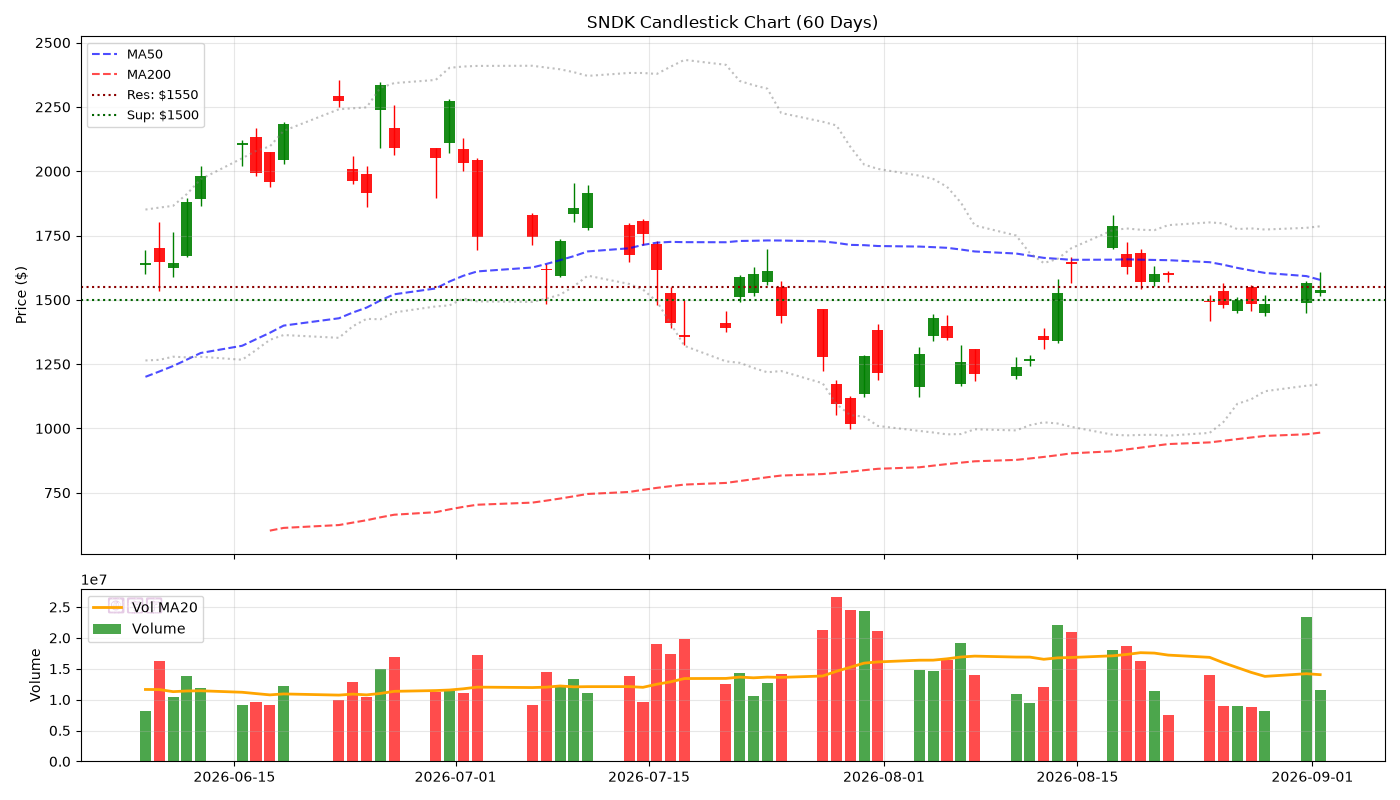
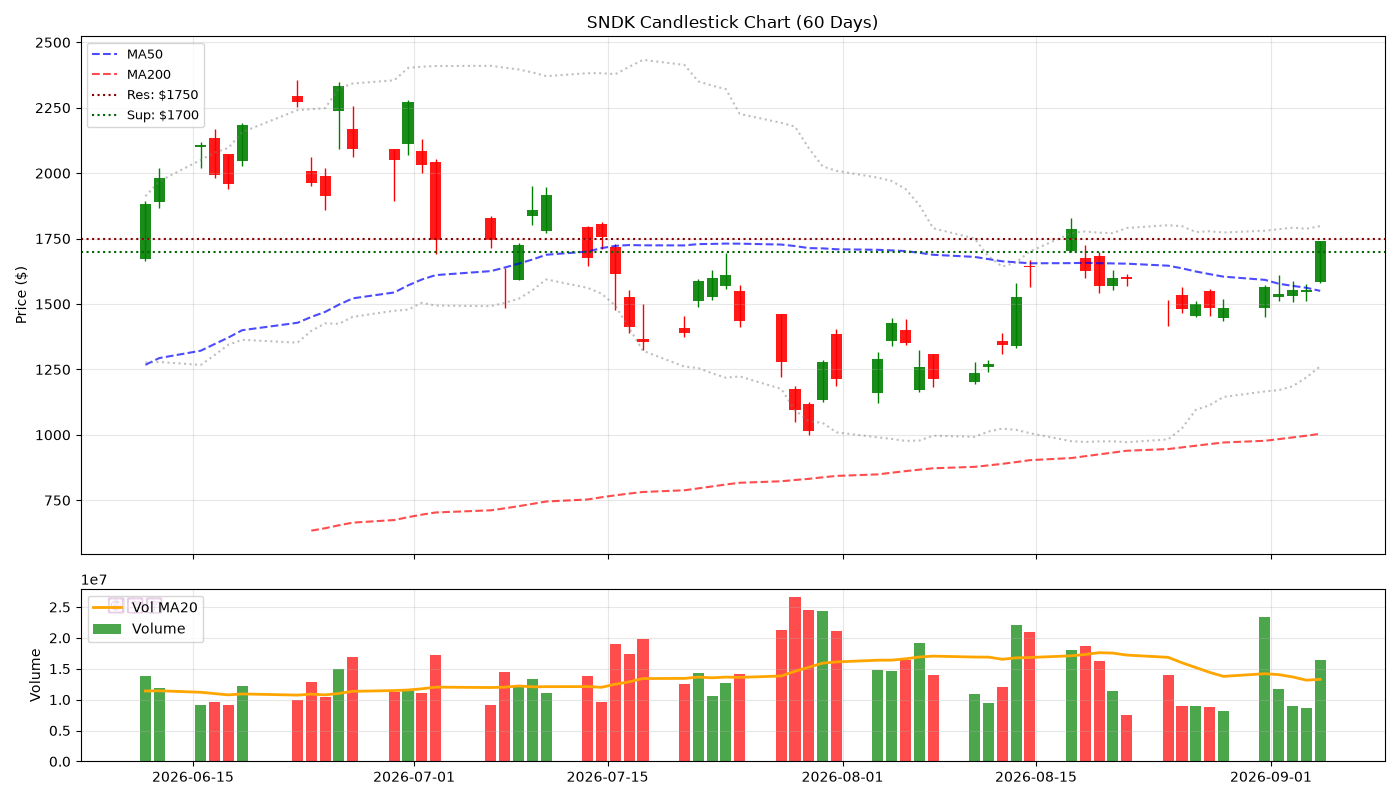
feat(v5): 2026-09-06 Candlestick

diff --git a/reports/2026-09-06.md b/reports/2026-09-06.md
@@ -1,0 +1,85 @@
+# 🕯 Hermes V5 陰陽燭專業日報 - 2026-09-06
+> **生成時間**: 2026-09-06 22:12:56 | **圖表**: 正宗陰陽燭 + Volume
+
+---
+
+## 📊 核心數據
+
+| 股票 | 價格 | 漲跌% | RSI | 成交量 | 阻力 | 支撐 |
+|------|------|-------|-----|--------|------|------|
+| SNDK | $1740.00 | +11.90% | 46.7 | 💧 | $1750 | $1700 |
+| MU | $1016.59 | +6.10% | 50.7 | 💧 | $1036 | $1000 |
+| SOXL | $117.28 | +9.87% | 30.2 | 💧 | $157 | $100 |
+| TSLA | $354.08 | -5.92% | 55.0 | 🔥 | $384 | $350 |
+| APP | $320.56 | +2.23% | 56.1 | 💧 | $350 | $300 |
+| NOW | $141.26 | -2.97% | 68.8 | 💧 | $150 | $118 |
+| CAT | $813.94 | +1.72% | 31.6 | 💧 | $888 | $800 |
+| AMAT | $454.71 | +4.31% | 17.4 | 💧 | $500 | $450 |
+| NOK | $10.03 | +2.66% | 36.1 | 💧 | $11 | $9 |
+| ALAB | $310.40 | +9.75% | 46.8 | 🔥 | $354 | $300 |
+
+---
+
+## 📈 個股陰陽燭分析
+
+### SNDK ($1740.00, +11.90%)
+![Candlestick](../charts/SNDK.png)
+
+- **RSI**: 46.7 | **Vol**: NORMAL
+- **關鍵位**: 阻力 $1750.00 | 支撐 $1700.00
+
+### MU ($1016.59, +6.10%)
+![Candlestick](../charts/MU.png)
+
+- **RSI**: 50.7 | **Vol**: NORMAL
+- **關鍵位**: 阻力 $1036.13 | 支撐 $1000.00
+
+### SOXL ($117.28, +9.87%)
+![Candlestick](../charts/SOXL.png)
+
+- **RSI**: 30.2 | **Vol**: NORMAL
+- **關鍵位**: 阻力 $156.92 | 支撐 $100.00
+
+### TSLA ($354.08, -5.92%)
+![Candlestick](../charts/TSLA.png)
+
+- **RSI**: 55.0 | **Vol**: HIGH
+- **關鍵位**: 阻力 $384.04 | 支撐 $350.00
+
+### APP ($320.56, +2.23%)
+![Candlestick](../charts/APP.png)
+
+- **RSI**: 56.1 | **Vol**: NORMAL
+- **關鍵位**: 阻力 $350.28 | 支撐 $300.00
+
+### NOW ($141.26, -2.97%)
+![Candlestick](../charts/NOW.png)
+
+- **RSI**: 68.8 | **Vol**: NORMAL
+- **關鍵位**: 阻力 $149.60 | 支撐 $117.59
+
+### CAT ($813.94, +1.72%)
+![Candlestick](../charts/CAT.png)
+
+- **RSI**: 31.6 | **Vol**: NORMAL
+- **關鍵位**: 阻力 $887.91 | 支撐 $800.00
+
+### AMAT ($454.71, +4.31%)
+![Candlestick](../charts/AMAT.png)
+
+- **RSI**: 17.4 | **Vol**: NORMAL
+- **關鍵位**: 阻力 $500.00 | 支撐 $450.00
+
+### NOK ($10.03, +2.66%)
+![Candlestick](../charts/NOK.png)
+
+- **RSI**: 36.1 | **Vol**: NORMAL
+- **關鍵位**: 阻力 $11.13 | 支撐 $9.12
+
+### ALAB ($310.40, +9.75%)
+![Candlestick](../charts/ALAB.png)
+
+- **RSI**: 46.8 | **Vol**: HIGH
+- **關鍵位**: 阻力 $354.00 | 支撐 $300.00
+
+*Generated by Hermes Agent V5 (Candlestick Pro)*

diff --git a/index.md b/index.md
@@ -1,12 +1,12 @@
 # 🌍 Hermes V5 陰陽燭情報中心
-> **更新**: 2026-09-02 06:00:55
+> **更新**: 2026-09-06 22:12:56
 
 | 股票 | 價格 | 漲跌% | RSI | Vol |
 |------|------|-------|-----|-----|
-| SNDK | $1536.87 | -1.90% | 60.1 | 💤 |
-| MU | $933.44 | -2.64% | 53.1 | 💤 |
-| SOXL | $105.91 | -6.10% | 28.8 | 💤 |
-| TSLA | $356.09 | -3.22% | 61.5 | 💤 |
-| NOW | $142.90 | -3.44% | 66.3 | 💤 |
+| SNDK | $1740.00 | +11.90% | 46.7 | 💤 |
+| MU | $1016.59 | +6.10% | 50.7 | 💤 |
+| SOXL | $117.28 | +9.87% | 30.2 | 💤 |
+| TSLA | $354.08 | -5.92% | 55.0 | 🔥 |
+| APP | $320.56 | +2.23% | 56.1 | 💤 |
 
-📖 [查看完整陰陽燭報告](reports/2026-09-02.md)
+📖 [查看完整陰陽燭報告](reports/2026-09-06.md)
